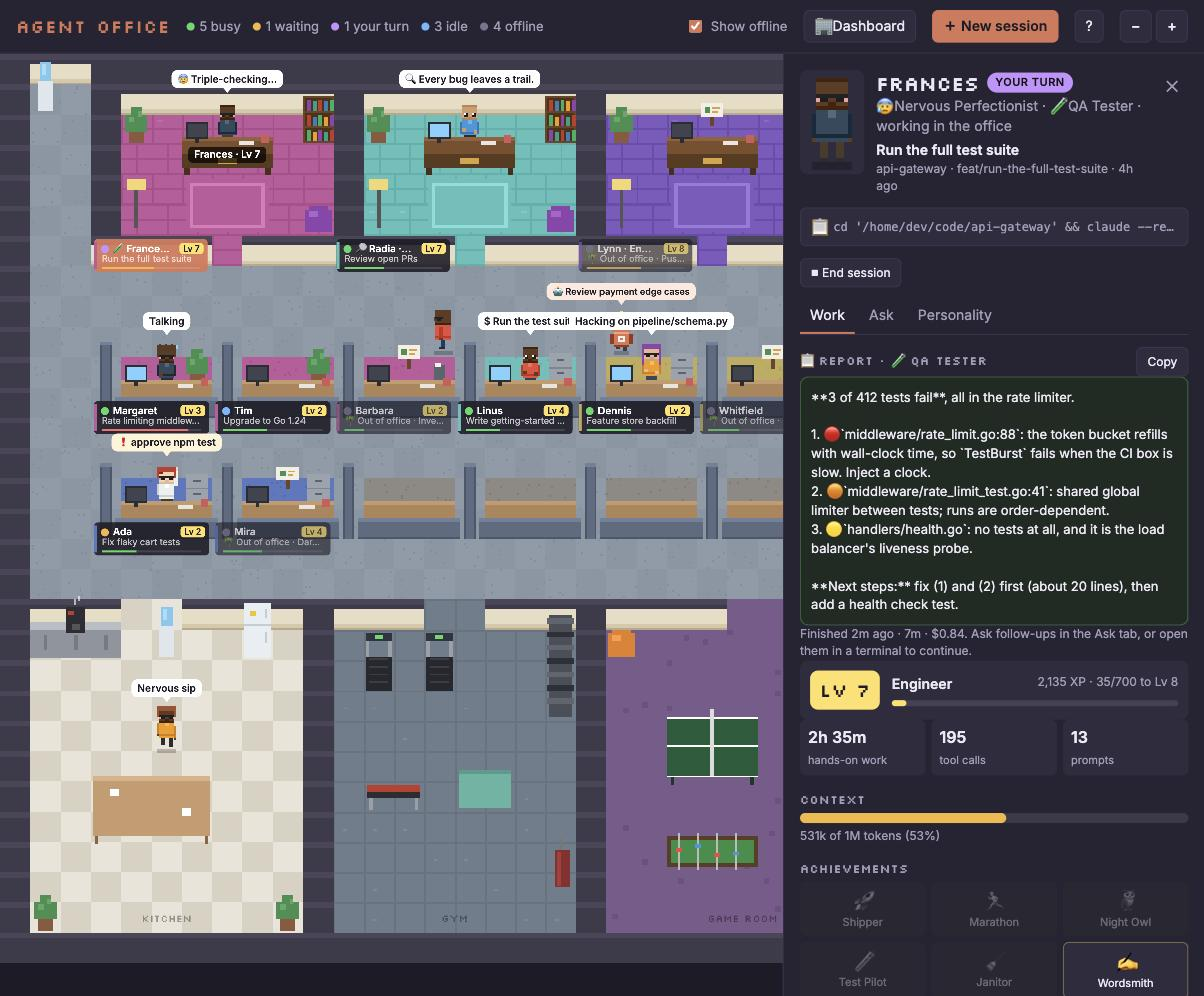
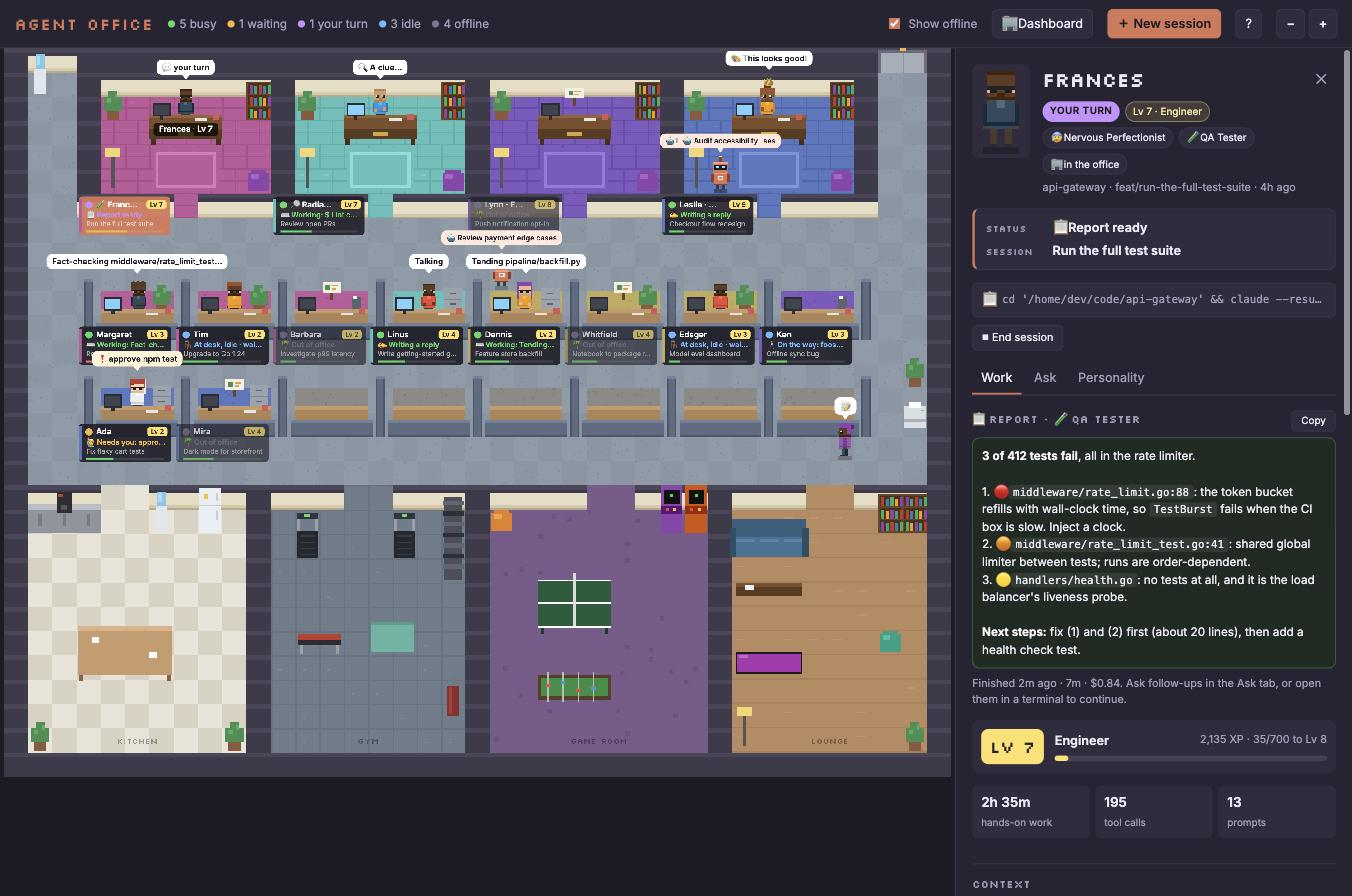
Cleaner agent panel, clear doorways, formatted reports
The panel no longer overflows off-screen (the office canvas was refusing to
shrink). The header is reorganised into badges, a status/session box and an
action group, with clearer section dividers. Reports, replies and Ask
answers render bold text, inline code and code blocks with a small, safe
markdown renderer. The gym treadmill, kitchen water cooler and lounge sofa
are moved out of the doorways, and the layout now warns if anything is ever
placed there.

diff --git a/public/app.js b/public/app.js
@@ -765,7 +765,7 @@ function loop(now) {
   const dt = Math.min(0.1, (now - last) / 1000); last = now; time += dt;
   if (selectedId && Math.floor(time * 2) !== Math.floor((time - dt) * 2)) { // refresh the panel's status line twice a second
     const a = agents.get(selectedId);
-    if (a) $('#pDoing').textContent = `Status: ${a.statusText()}`;
+    if (a) $('#pDoing').textContent = a.statusText();
   }
   if (world) { for (const a of agents.values()) a.update(dt); for (const h of helpers.values()) h.update(dt); updateEffects(dt); updateMatrix(dt); updateCritters(dt); render(); }
   requestAnimationFrame(loop);
@@ -819,6 +819,17 @@ function toast(html) {
   clearTimeout(toastTimer); toastTimer = setTimeout(() => { t.hidden = true; }, link ? 8000 : 2600);
 }
 
+// Tiny, safe markdown for reports and replies: escape everything first, then add a few styles.
+function md(text) {
+  let h = escapeHtml(text);
+  h = h.replace(/```[a-z]*\n?([\s\S]*?)```/g, (_, code) => `<pre>${code.replace(/\n$/, '')}</pre>`);
+  h = h.replace(/`([^`\n]+)`/g, '<code>$1</code>');
+  h = h.replace(/\*\*([^*\n]+)\*\*/g, '<b>$1</b>');
+  h = h.replace(/^#{1,4} (.+)$/gm, '<b class="md-h">$1</b>');
+  h = h.replace(/^\|?[-: |]+\|[-: |]*$/gm, '');                       // drop table separator rows
+  return h;
+}
+
 function escapeHtml(s) { return String(s ?? '').replace(/[&<>"']/g, c => ({ '&': '&amp;', '<': '&lt;', '>': '&gt;', '"': '&quot;', "'": '&#39;' }[c])); }
 function ago(t) {
   const d = (Date.now() - new Date(t).getTime()) / 1000;
@@ -862,14 +873,20 @@ function updatePanelHeader() {
   const s = a.session, p = a.persona;
   $('#pName').textContent = p.name;
   const ds = displayStatus(s);
-  const st = $('#pStatus'); st.textContent = ds; st.className = `chip ${ds.replace(' ', '-')}`;
+  const role = roleFor(p.role);
+  const preset = PRESETS.find(x => x.key === p.preset)?.label || '✏ Custom';
+  $('#pBadges').innerHTML = [
+    `<span class="chip ${ds.replace(' ', '-')}">${ds === 'offline' ? 'out of office' : ds}</span>`,
+    `<span class="pill lv">Lv ${s.level || 1} · ${escapeHtml(s.rank || 'Intern')}</span>`,
+    `<span class="pill">${escapeHtml(preset)}</span>`,
+    role ? `<span class="pill">${role.icon} ${escapeHtml(role.label)}</span>` : '',
+    s.background ? '<span class="pill">🏢 in the office</span>' : '',
+  ].join('');
   $('#endBtn').hidden = !s.live;
   $('#hideBtn').hidden = s.live;
   $('#openBtn').hidden = s.live;
-  const role = roleFor(p.role);
-  $('#pPreset').textContent = `${PRESETS.find(x => x.key === p.preset)?.label || 'Custom personality'}${role ? ` · ${role.icon} ${role.label}` : ''}${s.background ? ' · working in the office' : ''}`;
   $('#pTitle').textContent = s.title;
-  $('#pDoing').textContent = `Status: ${a.statusText()}`;
+  $('#pDoing').textContent = a.statusText();
   $('#pMeta').textContent = `${s.project}${s.gitBranch ? ` · ${s.gitBranch}` : ''} · ${ago(s.updatedAt)}`;
   $('#cmdText').textContent = resumeCmd(s);
   const av = $('#avatar').getContext('2d');
@@ -898,7 +915,7 @@ function renderWork() {
   const reportHtml = d.runState === 'running'
     ? `<h3>📋 Report</h3><p class="muted small">${role ? role.icon : '🏢'} Working on it in the background… the report appears here when they're done.</p>`
     : rep ? `<div class="report-head"><h3>📋 Report${role ? ` · ${role.icon} ${escapeHtml(role.label)}` : ''}</h3><button class="small" id="copyReport">Copy</button></div>
-      <div class="report ${rep.ok ? '' : 'failed'}">${escapeHtml(rep.result)}</div>
+      <div class="report md ${rep.ok ? '' : 'failed'}">${md(rep.result)}</div>
       <div class="muted small">${rep.ok ? 'Finished' : 'Failed'} ${ago(rep.endedAt)} · ${fmtDuration(rep.endedAt - rep.startedAt)} · $${(rep.cost || 0).toFixed(2)}. Ask follow-ups in the Ask tab, or open them in a terminal to continue.</div>`
     : '';
   $('#tab-work').innerHTML = `
@@ -928,7 +945,7 @@ function renderWork() {
     </div>
     ${d.prs.length ? `<h3>Pull requests</h3>${d.prs.map(p => `<div><a href="${escapeHtml(p.url)}" target="_blank" rel="noopener">${escapeHtml(p.repo)} #${p.number}</a></div>`).join('')}` : ''}
     <h3>Latest thoughts</h3>
-    ${replies.map(r => `<div class="item"><time>${ago(r.at)}</time>${escapeHtml(r.text)}</div>`).join('') || '<p class="muted">Nothing yet.</p>'}
+    ${replies.map(r => `<div class="item md"><time>${ago(r.at)}</time>${md(r.text)}</div>`).join('') || '<p class="muted">Nothing yet.</p>'}
     <h3>What you asked</h3>
     ${prompts.map(r => `<div class="item"><time>${ago(r.at)}</time>${escapeHtml(r.text)}</div>`).join('') || '<p class="muted">No prompts.</p>'}
     ${d.files.length ? `<h3>Files touched</h3><ul class="files">${d.files.map(f => `<li title="${escapeHtml(f.path)}">${escapeHtml(f.path.replace(d.cwd + '/', ''))} <span>×${f.edits}</span></li>`).join('')}</ul>` : ''}
@@ -947,7 +964,7 @@ document.querySelectorAll('.tabs button').forEach(b => b.onclick = () => {
 // ask
 function renderChat() {
   const log = chats.get(selectedId) || [];
-  $('#chat').innerHTML = log.map(m => `<div class="msg ${m.who}${m.thinking ? ' thinking' : ''}">${escapeHtml(m.text)}</div>`).join('');
+  $('#chat').innerHTML = log.map(m => `<div class="msg md ${m.who}${m.thinking ? ' thinking' : ''}">${m.who === 'them' ? md(m.text) : escapeHtml(m.text)}</div>`).join('');
 }
 
 async function ask(question) {

diff --git a/public/style.css b/public/style.css
@@ -23,15 +23,15 @@ button:hover { border-color: var(--accent); }
 .zoom button { width: 32px; font-weight: 600; }
 
 main { display: flex; height: calc(100% - 53px); }
-#viewport { flex: 1; overflow: auto; position: relative; }
+#viewport { flex: 1; min-width: 0; overflow: auto; position: relative; }
 #office { display: block; margin: 0 auto; image-rendering: pixelated; cursor: default; }
 
-#panel { width: 420px; max-width: 100%; border-left: 1px solid var(--border); background: var(--panel); overflow-y: auto; padding: 16px; display: flex; flex-direction: column; gap: 12px; }
+#panel { flex: none; width: 440px; max-width: 100%; border-left: 1px solid var(--border); background: var(--panel); overflow-y: auto; overflow-x: hidden; padding: 18px 18px 28px; display: flex; flex-direction: column; gap: 14px; }
 #panel[hidden] { display: none; }
-.panel-head { display: flex; gap: 12px; align-items: flex-start; }
+.panel-head { display: flex; gap: 14px; align-items: flex-start; }
 #avatar { image-rendering: pixelated; background: var(--panel-2); border-radius: 8px; flex: none; }
 .who { flex: 1; min-width: 0; }
-.name-row { display: flex; align-items: center; gap: 8px; }
+.name-row { display: flex; align-items: center; justify-content: space-between; gap: 8px; }
 h2 { margin: 0; font: 20px Silkscreen, monospace; }
 .title { font-weight: 600; margin-top: 4px; }
 .muted { color: var(--muted); }
@@ -174,3 +174,42 @@ body.matrix h1, body.matrix #stats { color: #00ff66; text-shadow: 0 0 6px #00ff6
 .pack p { margin: 0; }
 
 .doing { font-size: 13px; font-weight: 600; color: var(--text); margin-top: 2px; }
+
+/* ---- agent panel layout ---- */
+#panel h2 { font-size: 22px; line-height: 1.1; overflow: hidden; text-overflow: ellipsis; white-space: nowrap; }
+.badge-row { display: flex; flex-wrap: wrap; gap: 6px; margin: 8px 0 6px; }
+.pill { font-size: 11px; line-height: 1; padding: 5px 8px; border-radius: 99px; background: var(--panel-2); border: 1px solid var(--border); color: var(--text); white-space: nowrap; }
+.pill.lv { background: #ffe06622; border-color: #ffe06666; color: #ffe9a0; }
+.badge-row .chip { line-height: 1; padding: 5px 8px; }
+.meta { overflow: hidden; text-overflow: ellipsis; white-space: nowrap; }
+.status-box { background: var(--panel-2); border: 1px solid var(--border); border-left: 3px solid var(--accent); border-radius: 8px; padding: 10px 12px; display: grid; grid-template-columns: 64px 1fr; gap: 6px 10px; align-items: baseline; }
+.status-box .label { font: 10px Silkscreen, monospace; color: var(--muted); letter-spacing: .5px; text-transform: uppercase; }
+.status-box .doing { margin: 0; font-size: 14px; }
+.status-box .title { margin: 0; font-weight: 600; }
+.status-box .doing, .status-box .title { word-break: break-word; }
+.panel-actions { display: flex; flex-direction: column; gap: 8px; }
+.panel-actions .copy { min-width: 0; }
+.panel-actions .copy code { min-width: 0; flex: 1; }
+.actions:empty, .actions:not(:has(button:not([hidden]))) { display: none; }
+.tab { display: flex; flex-direction: column; gap: 4px; }
+.tab[hidden] { display: none; }
+.tab h3 { margin: 18px 0 8px; padding-top: 14px; border-top: 1px solid var(--border); }
+.tab > h3:first-child, .tab > .report-head:first-child h3 { margin-top: 4px; padding-top: 0; border-top: none; }
+.tab .kv { margin: 6px 0; }
+.kv div { padding: 8px 10px; }
+.kv b { font-size: 15px; }
+.level-card { margin: 10px 0 4px; }
+.report-head { display: flex; align-items: center; justify-content: space-between; }
+.report-head h3 { border-top: none; padding-top: 0; margin: 4px 0 8px; }
+.report { margin-bottom: 4px; line-height: 1.5; }
+.item { line-height: 1.5; padding: 10px 12px; margin-bottom: 8px; }
+.item time { margin-bottom: 4px; }
+.badges { gap: 8px; }
+.badge { padding: 8px 6px; line-height: 1.3; }
+.files li { padding: 2px 0; }
+button.small, .report-head button { font-size: 11px; padding: 3px 10px; }
+
+.md code { font: 12px ui-monospace, Menlo, monospace; background: rgba(255,255,255,0.08); border-radius: 4px; padding: 1px 5px; }
+.md pre { font: 12px ui-monospace, Menlo, monospace; background: rgba(0,0,0,0.3); border-radius: 6px; padding: 8px 10px; margin: 6px 0; white-space: pre-wrap; }
+.md b { color: #fff; }
+.md .md-h { display: inline-block; margin-top: 4px; font-size: 14px; }

diff --git a/public/world.js b/public/world.js
@@ -128,17 +128,17 @@ export function buildWorld(sessions) {
 
   // kitchen
   O('counter', 1, c1, 3); O('coffee', 2, c1, 1, 1, { block: false, over: true });
-  O('cooler', 5, c1); O('fridge', 8, c1);
+  O('cooler', 6, c1); O('fridge', 8, c1);
   S('kitchen', 2, c1 + 1, 'up', 'use', '☕', { dur: [6, 12] });
-  S('kitchen', 5, c1 + 1, 'up', 'stand', '💧');
+  S('kitchen', 6, c1 + 1, 'up', 'stand', '💧');
   S('kitchen', 8, c1 + 1, 'up', 'use', '🥪');
   O('table', 3, c1 + 5, 4, 2);
   for (const x of [4, 5]) { S('kitchen', x, c1 + 4, 'down', 'sit', '☕', { dur: [10, 20] }); S('kitchen', x, c1 + 7, 'up', 'sit', '🍩', { dur: [10, 20] }); }
   O('plant', 1, c1 + 9); O('plant', 9, c1 + 9);
 
   // gym
-  O('treadmill', 12, c1 + 1, 1, 1, { block: false, under: true }); O('treadmill', 14, c1 + 1, 1, 1, { block: false, under: true });
-  S('gym', 12, c1 + 1, 'down', 'run', '🏃', { dur: [8, 16] }); S('gym', 14, c1 + 1, 'down', 'run', '🏃', { dur: [8, 16] });
+  O('treadmill', 12, c1 + 1, 1, 1, { block: false, under: true }); O('treadmill', 16, c1 + 1, 1, 1, { block: false, under: true });
+  S('gym', 12, c1 + 1, 'down', 'run', '🏃', { dur: [8, 16] }); S('gym', 16, c1 + 1, 'down', 'run', '🏃', { dur: [8, 16] });
   O('rack', 18, c1, 1, 3);
   O('bench', 12, c1 + 5, 2, 1, { block: false, under: true });
   S('gym', 12, c1 + 5, 'down', 'lift', '💪', { dur: [6, 12] });
@@ -159,15 +159,21 @@ export function buildWorld(sessions) {
   S('games', 20, c1, 'down', 'sit', '📱');
 
   // lounge
-  O('sofa', 31, c1 + 1, 3, 1, { block: false, under: true }); O('sofaFront', 31, c1 + 1, 3, 1, { block: false, over: true });
-  for (const x of [31, 32, 33]) S('lounge', x, c1 + 1, 'down', 'sit', x === 32 ? '📺' : '💬', { dur: [12, 25], nap: true });
-  O('ctable', 31, c1 + 3, 3, 1);
-  O('tv', 31, c1 + 6, 3, 1);
+  O('sofa', 30, c1 + 1, 3, 1, { block: false, under: true }); O('sofaFront', 30, c1 + 1, 3, 1, { block: false, over: true });
+  for (const x of [30, 31, 32]) S('lounge', x, c1 + 1, 'down', 'sit', x === 31 ? '📺' : '💬', { dur: [12, 25], nap: true });
+  O('ctable', 30, c1 + 3, 3, 1);
+  O('tv', 30, c1 + 6, 3, 1);
   O('shelf', 36, c1, 1, 1); O('shelf', 37, c1, 1, 1);
   S('lounge', 36, c1 + 1, 'up', 'stand', '📖', { dur: [6, 12] });
   O('beanbag', 36, c1 + 5, 1, 1, { block: false, under: true, color: '#16a085' });
   S('lounge', 36, c1 + 5, 'down', 'sit', '🎧', { dur: [12, 25], nap: true });
   O('lamp', 30, c1 + 9); O('plant', 37, c1 + 9);
+
+  // keep doorways clear: nothing may stand on the first two tiles inside a door
+  for (const z of zones) for (const dx of z.door) for (const y of [c1, c1 + 1]) {
+    const hit = objects.find(o => dx >= o.x && dx < o.x + o.w && y >= o.y && y < o.y + o.h) || spots.find(sp => sp.x === dx && sp.y === y);
+    if (hit) console.warn(`${z.id} doorway at ${dx},${y} is blocked by`, hit.type || hit.id);
+  }
 
   // blocking grid
   const walkable = tiles.map(row => row.map(t => t.kind !== 'wall'));

diff --git a/public/index.html b/public/index.html
@@ -30,19 +30,26 @@
       <div class="panel-head">
         <canvas id="avatar" width="64" height="104"></canvas>
         <div class="who">
-          <div class="name-row"><h2 id="pName"></h2><span id="pStatus" class="chip"></span></div>
-          <div id="pPreset" class="muted"></div>
-          <div id="pDoing" class="doing"></div>
-          <div id="pTitle" class="title"></div>
-          <div id="pMeta" class="muted small"></div>
+          <div class="name-row"><h2 id="pName"></h2><button id="closePanel" class="icon" title="Close (Esc)">✕</button></div>
+          <div id="pBadges" class="badge-row"></div>
+          <div id="pMeta" class="muted small meta"></div>
         </div>
-        <button id="closePanel" class="icon" title="Close (Esc)">✕</button>
       </div>
-      <button id="copyCmd" class="copy"><span>📋</span> <code id="cmdText"></code></button>
-      <div class="actions">
-        <button id="openBtn" title="Resume in a new terminal window (O)">🖥 Open in terminal</button>
-        <button id="endBtn" class="danger" title="Stop the running claude process (the transcript is kept)">⏹ End session</button>
-        <button id="hideBtn" title="Remove this cubicle from the office (H)">🙈 Hide</button>
+
+      <div class="status-box">
+        <div class="label">Status</div>
+        <div id="pDoing" class="doing"></div>
+        <div class="label">Session</div>
+        <div id="pTitle" class="title"></div>
+      </div>
+
+      <div class="panel-actions">
+        <button id="copyCmd" class="copy" title="Copy the resume command (C)"><span>📋</span> <code id="cmdText"></code></button>
+        <div class="actions">
+          <button id="openBtn" title="Resume in a new terminal window (O)">🖥 Open in terminal</button>
+          <button id="endBtn" class="danger" title="Stop the running claude process (the transcript is kept)">⏹ End session</button>
+          <button id="hideBtn" title="Remove this cubicle from the office (H)">🙈 Hide</button>
+        </div>
       </div>
 
       <nav class="tabs">
